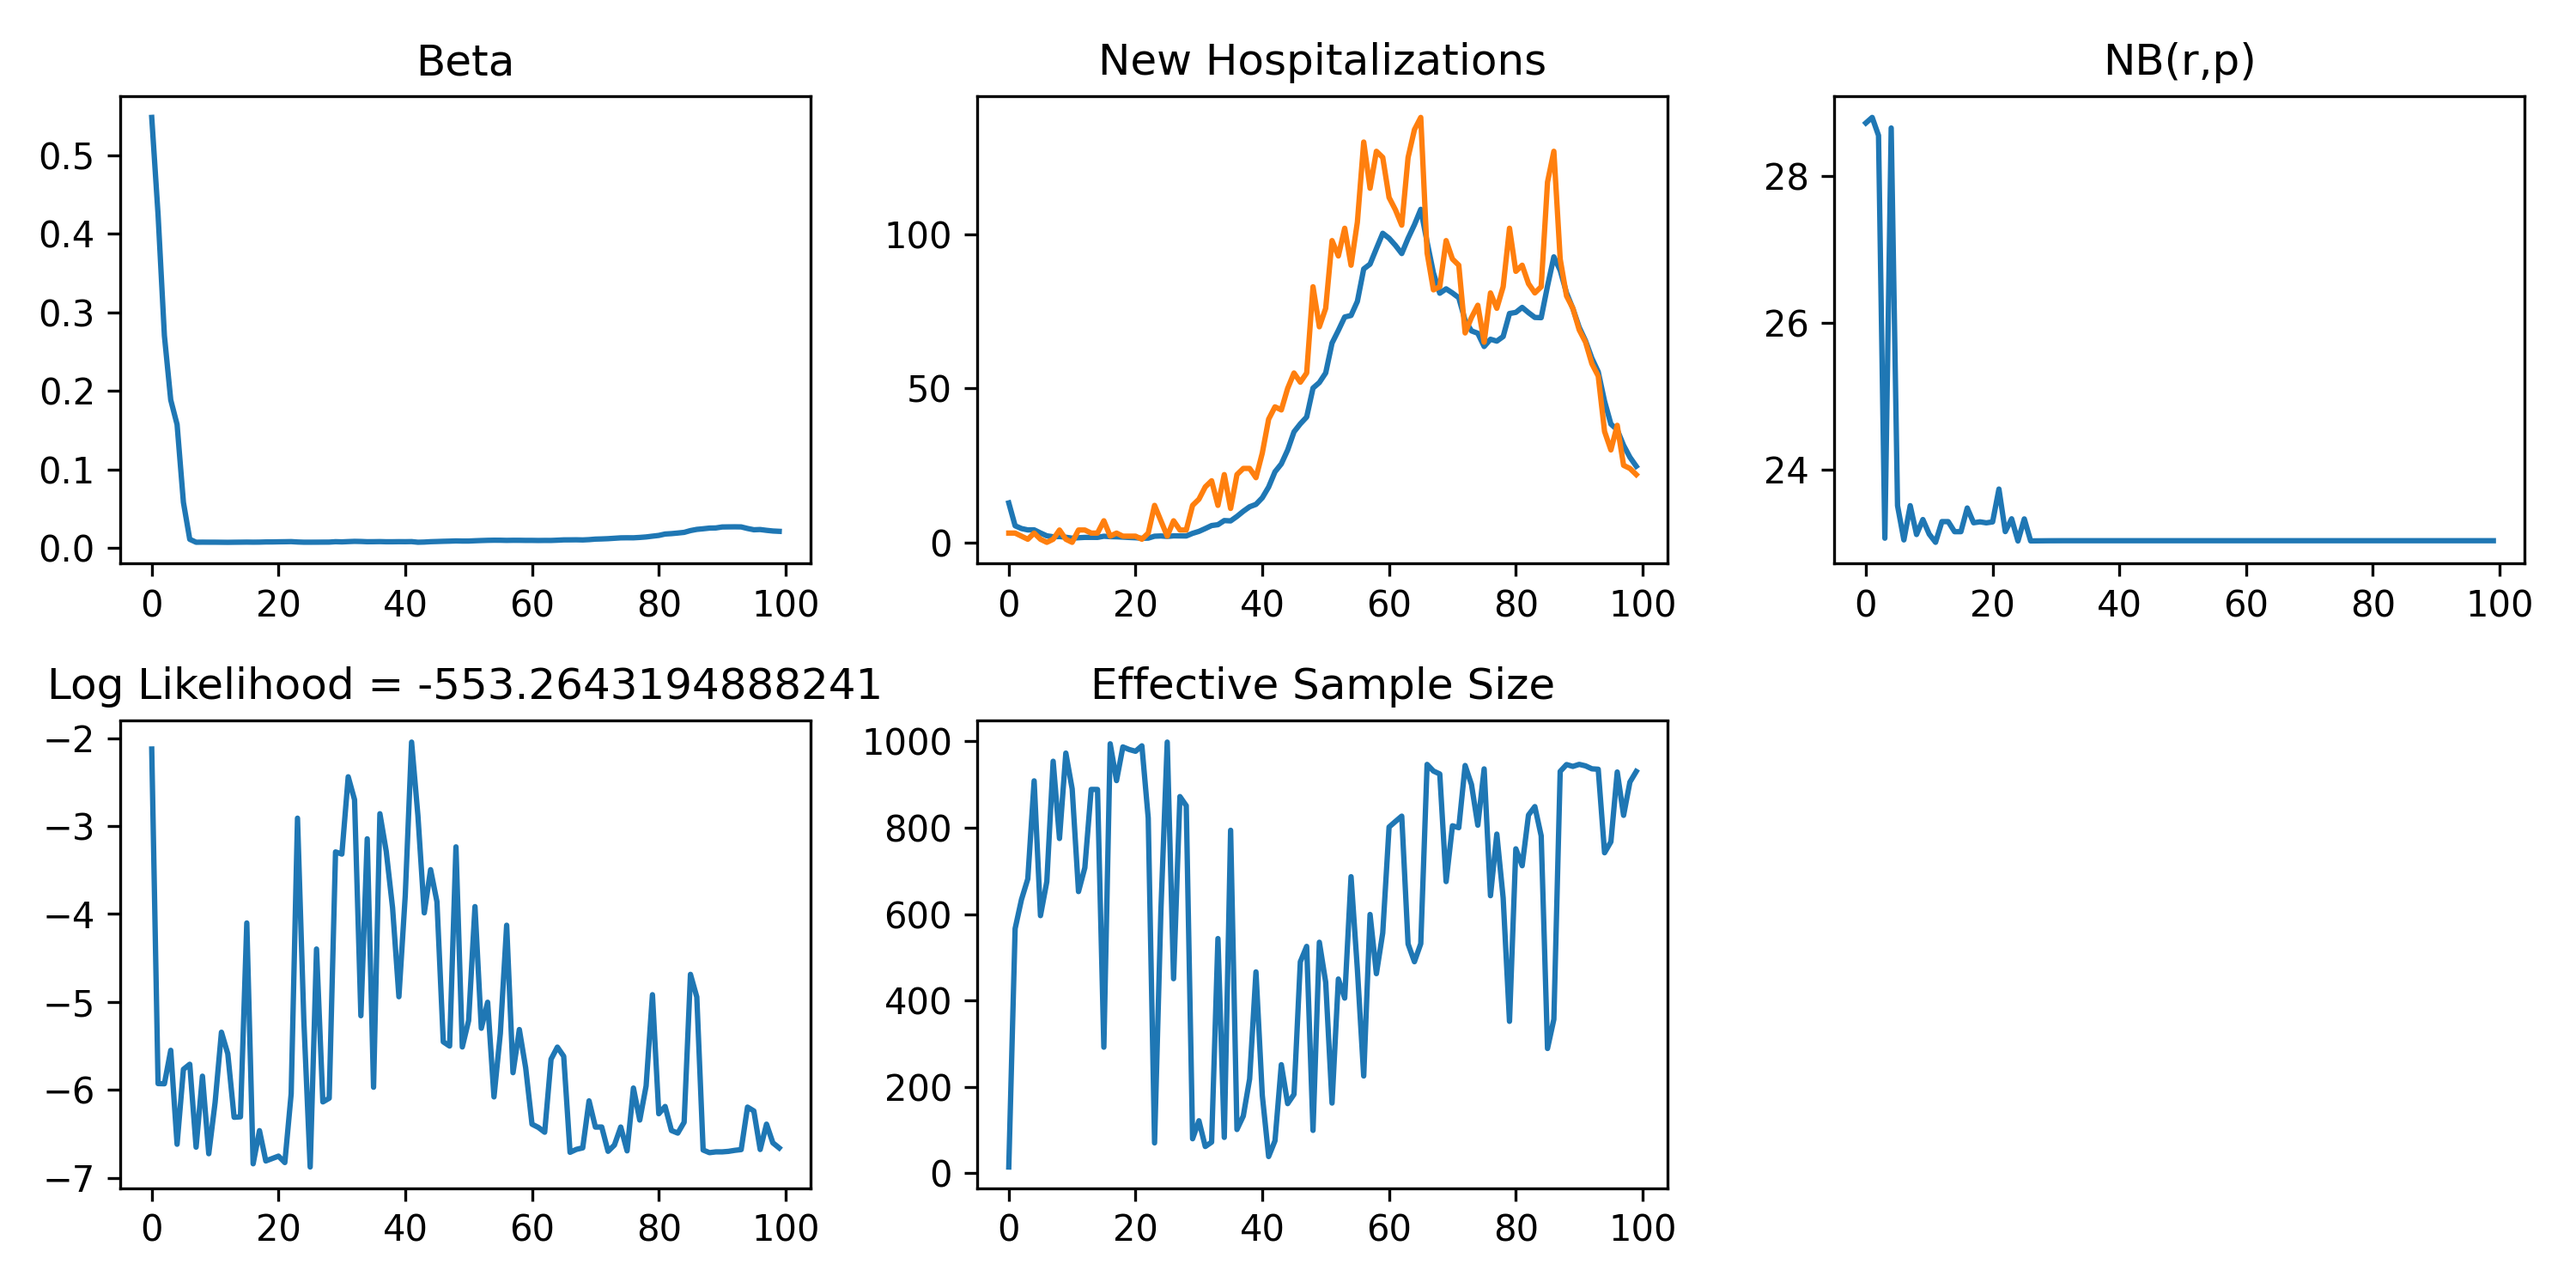
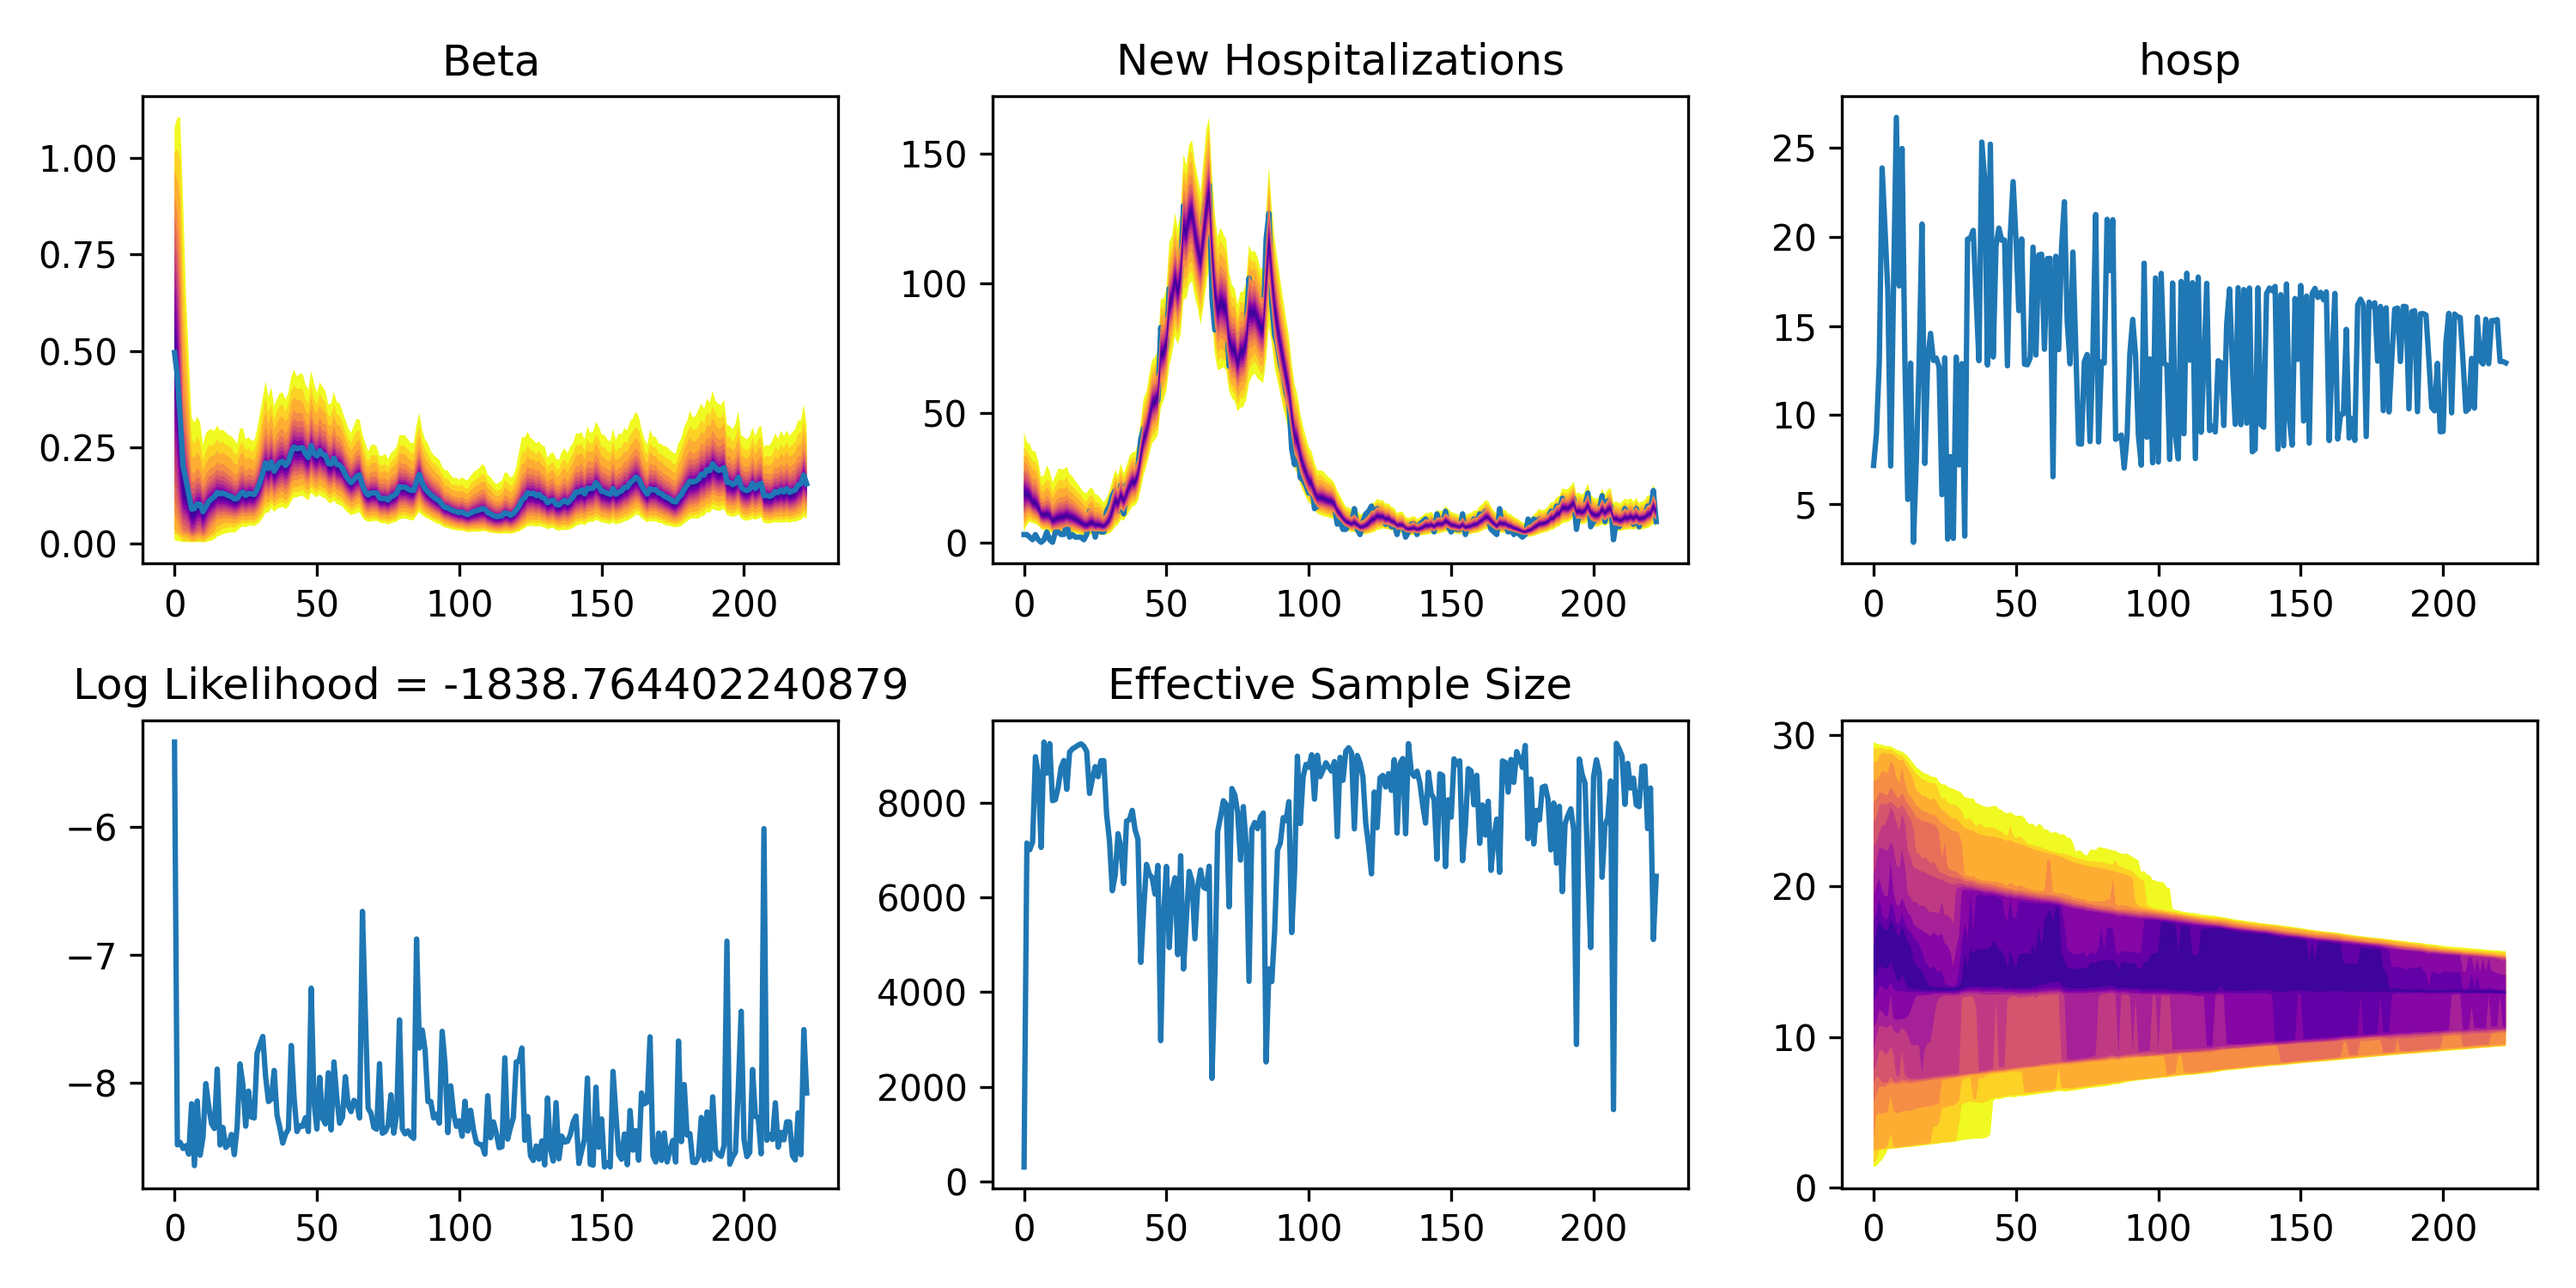
modified:   Abstract/Algorithm.py 	modified:   Implementations/algorithms/TimeDependentBeta.py 	modified:   Implementations/perturbers/perturbers.py 	modified:   Implementations/solvers/DeterministicSolvers.py 	modified:   figuresh0.1.png 	modified:   main.py

diff --git a/Implementations/algorithms/TimeDependentBeta.py b/Implementations/algorithms/TimeDependentBeta.py
@@ -39,7 +39,7 @@ class TimeDependentAlgo(Algorithm):
 
 
     @timing
-    def run(self,data_path:str) ->None:
+    def run(self,data_path:str,runtime:int) ->None:
         '''The algorithms main run method, takes the time series data as a parameter and returns an output object encapsulating parameter and state values'''
 
         data = pd.read_csv(data_path).to_numpy()
@@ -51,11 +51,12 @@ class TimeDependentAlgo(Algorithm):
         state = []
         LL = []
         ESS = []
+        gamma = []
         R_quantiles = []
         state_quantiles = []
         beta_quantiles = []
 
-        while(self.ctx.clock.time < len(data)): 
+        while(self.ctx.clock.time < runtime): 
             self.integrator.propagate(self.particles,self.ctx)
 
             self.ctx.weights = (self.resampler.compute_weights(data[self.ctx.clock.time],self.particles))
@@ -69,16 +70,16 @@ class TimeDependentAlgo(Algorithm):
             LL.append(np.log((max(self.ctx.weights))))
 
             beta.append(np.mean([particle.param['beta'] for particle in self.particles]))
-            R.append(particle_max.param['R'])
-            R_quantiles.append(quantiles([particle.param['R'] for particle in self.particles]))
+            R.append(particle_max.param['hosp'])
+            R_quantiles.append(quantiles([particle.param['hosp'] for particle in self.particles]))
             state_quantiles.append(quantiles([particle.observation for particle in self.particles]))
             beta_quantiles.append(quantiles([particle.param['beta'] for particle in self.particles]))
             D.append(particle_max.param['D'])
-
             ESS.append(1/np.sum(self.ctx.weights **2))
 
 
             state.append(np.mean([particle.observation for particle in self.particles],axis=0))
+
 
             print(f"Iteration: {self.ctx.clock.time}")
             self.ctx.clock.tick()
@@ -99,17 +100,17 @@ class TimeDependentAlgo(Algorithm):
 
         ax[0].plot(beta,label='Beta',zorder=12)
         for i in range(11):
-            ax[0].fill_between(np.arange(223), beta_quantiles[:,i], beta_quantiles[:,22-i], facecolor=colors[11 - i], zorder=i)
+            ax[0].fill_between(np.arange(self.ctx.clock.time), beta_quantiles[:,i], beta_quantiles[:,22-i], facecolor=colors[11 - i], zorder=i)
         ax[0].title.set_text('Beta')
 
         #ax[1].plot(state,label='New Hospitalizations')
         for i in range(11):
-            ax[1].fill_between(np.arange(223), state_quantiles[:,i], state_quantiles[:,22-i], facecolor=colors[11 - i], zorder=i)
+            ax[1].fill_between(np.arange(self.ctx.clock.time), state_quantiles[:,i], state_quantiles[:,22-i], facecolor=colors[11 - i], zorder=i)
         ax[1].plot(data)
         ax[1].title.set_text('New Hospitalizations')
 
-        ax[2].plot(R,label='NB(r,p)')
-        ax[2].title.set_text('NB(r,p)')
+        ax[2].plot(R,label='hosp')
+        ax[2].title.set_text('hosp')
 
         ax[3].plot(LL,label='Log Likelihood')
         total_LL = np.sum(LL)
@@ -120,11 +121,11 @@ class TimeDependentAlgo(Algorithm):
 
         
         for i in range(11):
-            ax[5].fill_between(np.arange(223), R_quantiles[:,i], R_quantiles[:,22-i], facecolor=colors[11 - i], zorder=i)
+            ax[5].fill_between(np.arange(self.ctx.clock.time), R_quantiles[:,i], R_quantiles[:,22-i], facecolor=colors[11 - i], zorder=i)
 
         fig.tight_layout()
         h = self.perturb.hyperparameters['h']
-        fig.savefig(f'figuresBigRh{h}.png',dpi=300)
+        fig.savefig(f'figuresh{h}.png',dpi=300)
 
                 
 

diff --git a/Implementations/solvers/DeterministicSolvers.py b/Implementations/solvers/DeterministicSolvers.py
@@ -1,7 +1,27 @@
 from utilities.Utils import Particle,Context
 from Abstract.Integrator import Integrator
+from scipy.integrate import solve_ivp,odeint
 from typing import List
 import numpy as np
+
+
+def RHS_H(t, state, param):
+    #params has all the parameters – beta, gamma
+    #state is a numpy array
+
+    S,I,R,H,old_H = state #unpack the state variables
+    N = S + I + R + H #compute the total population
+
+    new_H = ((1/param['D'])*param['gamma']) * I #our observation value for the particle  
+
+    '''The state transitions of the ODE model is below'''
+    dS = -param['beta']*(S*I)/N + (1/param['L'])*R 
+    dI = param['beta']*S*I/N-(1/param['D'])*I
+    dR = (1/param['hosp']) * H + ((1/param['D'])*(1-(param['gamma']))*I)-(1/param['L'])*R 
+    dH = (1/param['D'])*(param['gamma']) * I - (1/param['hosp']) * H 
+
+    return np.array([dS,dI,dR,dH,new_H])
+    
 
 
 class EulerSolver(Integrator): 
@@ -16,7 +36,6 @@ class EulerSolver(Integrator):
         for particle in particleArray: 
             particle.observation = 0
 
-        
         for j,_ in enumerate(particleArray): 
             for _ in range(int(1/dt)): 
                 '''This loop runs over the particleArray, performing the integration in RHS for each one'''
@@ -26,6 +45,7 @@ class EulerSolver(Integrator):
                 if(np.any(np.isnan(particleArray[j].state))): 
                     print(f"NaN state at particle: {j}")
                 particleArray[j].observation += np.array([sim_obv])
+
 
         return particleArray
     
@@ -55,25 +75,21 @@ class Rk45Solver(Integrator):
     '''Elements of particleArray are of Particle class in utilities/Utils.py'''
     def propagate(self,particleArray:List[Particle],ctx:Context)->List[Particle]: 
 
-        '''code here, you can call RHS_H or change it'''
+
+        for i,particle in enumerate(particleArray): 
+
+            y0 = np.concatenate((particle.state,particle.observation))  # Initial state of the system
+            
+            t_span = (0.0, 1.0)
+            result_solve_ivp = solve_ivp(RHS_H, t_span, y0, args=(particle.param,))
+
+            particleArray[i].state = np.array(result_solve_ivp.y[0:ctx.state_size,-1])
+            particleArray[i].observation = np.array([result_solve_ivp.y[-1,-1]])
+
+
+            if(np.any(np.isnan(particleArray[i].state))): 
+                    print(f"NaN state at particle: {i}")
+
 
         return particleArray
 
-
-    def RHS_H(self,particle:Particle):
-    #params has all the parameters – beta, gamma
-    #state is a numpy array
-
-        S,I,R,H = particle.state #unpack the state variables
-        N = S + I + R + H #compute the total population
-
-        new_H = ((1/particle.param['D'])*particle.param['gamma']) * I #our observation value for the particle  
-
-        '''The state transitions of the ODE model is below'''
-        dS = -particle.param['beta']*(S*I)/N + (1/particle.param['L'])*R 
-        dI = particle.param['beta']*S*I/N-(1/particle.param['D'])*I
-        dR = (1/particle.param['hosp']) * H + ((1/particle.param['D'])*(1-(particle.param['gamma']))*I)-(1/particle.param['L'])*R 
-        dH = (1/particle.param['D'])*(particle.param['gamma']) * I - (1/particle.param['hosp']) * H 
-
-        return np.array([dS,dI,dR,dH]),new_H
-    

diff --git a/main.py b/main.py
@@ -1,7 +1,7 @@
 from Implementations.algorithms.TimeDependentBeta import TimeDependentAlgo
 from Implementations.resamplers.resamplers import NBinomResample,LogNBinomResample,NBinomResampleR
 from Implementations.solvers.StochasticSolvers import PoissonSolver
-from Implementations.solvers.DeterministicSolvers import EulerSolver
+from Implementations.solvers.DeterministicSolvers import EulerSolver,Rk45Solver
 from Implementations.perturbers.perturbers import MultivariatePerturbations
 from utilities.Utils import Context,ESTIMATION
 from functools import partial
@@ -14,7 +14,7 @@ np.set_printoptions(suppress=True)
 
 algo = TimeDependentAlgo(integrator = EulerSolver(),
                         perturb = MultivariatePerturbations(hyper_params={"h":0.1,"sigma1":0.1,"sigma2":0.1}),
-                        resampler = NBinomResampleR(),
+                        resampler = NBinomResample(),
                         ctx=Context(population=7_000_000,
                                     state_size = 4,
                                     weights=np.zeros(10000),
@@ -25,21 +25,21 @@ algo.initialize(params={
 "beta":ESTIMATION.VARIABLE,
 "gamma":0.1,
 "std":ESTIMATION.VARIABLE,
-"R":ESTIMATION.STATIC,
-"hosp":5.3,
+"R":0,
+"hosp":ESTIMATION.STATIC,
 "L":90,
-"D":10}
+"D":7}
 ,priors={"beta":partial(algo.ctx.rng.uniform,0.,1.),
-          "D":partial(algo.ctx.rng.uniform,1,1000),
+          "D":partial(algo.ctx.rng.uniform,1,20),
           "std":partial(algo.ctx.rng.uniform,20.,30.),
-          "gamma":partial(algo.ctx.rng.normal,0.18687750960396116,0.1),
+          "hosp":partial(algo.ctx.rng.uniform,1,30),
           "L":partial(algo.ctx.rng.uniform,1,75),
           "R":partial(algo.ctx.rng.uniform,0.,1.)
           })
 data = pd.read_csv('./datasets/FLU_HOSPITALIZATIONS.csv').to_numpy()
 data = np.delete(data,0,1)
 
-algo.run('./datasets/FLU_HOSPITALIZATIONS.csv')
+algo.run('./datasets/FLU_HOSPITALIZATIONS.csv',223)
 
 
 

diff --git a/Implementations/perturbers/perturbers.py b/Implementations/perturbers/perturbers.py
@@ -53,6 +53,8 @@ class MultivariatePerturbations(Perturb):
         for i,param_vec in enumerate(static_param_mat): 
             log_mean += ctx.weights[i] * (param_vec)
 
+        print(np.exp(log_mean))
+
         '''Computes the covariance of the logarithms of the particles'''
         cov = 0
         for i,param_vec in enumerate(static_param_mat): 
@@ -74,16 +76,14 @@ class MultivariatePerturbations(Perturb):
 
         '''Perturb the variable parameters '''
 
-        #TODO Need a more flexible solution here, covariance meatrix shouldn't be hard coded
 
         state1 = np.array([self.hyperparameters['sigma1']/ctx.population]) ** 2
         otherstates = np.array([self.hyperparameters['sigma1']**2 for _ in range(ctx.state_size-1)])
-        C = np.diag([(self.hyperparameters['sigma1']/ctx.population) ** 2,
-                     self.hyperparameters['sigma1'] ** 2,
-                     self.hyperparameters['sigma1'] ** 2,
-                     self.hyperparameters['sigma1'] **2,
-                     self.hyperparameters['sigma2'] ** 2,
-                     self.hyperparameters['sigma2'] ** 2]).astype(float)
+        param_variance = np.array([self.hyperparameters['sigma2']**2 for _ in range(len(var_names))])
+
+        C = np.concatenate((state1,otherstates,param_variance))
+
+        C = np.diag(C).astype(float)
 
 
         '''Main perturbation loop'''

diff --git a/Abstract/Algorithm.py b/Abstract/Algorithm.py
@@ -35,7 +35,7 @@ class Algorithm(ABC):
 
         
     @abstractmethod
-    def run(self) ->None:
+    def run(self,data_path:str,runtime:int) ->None:
         '''No base implementation, defined in child class implementations'''
         pass
         
